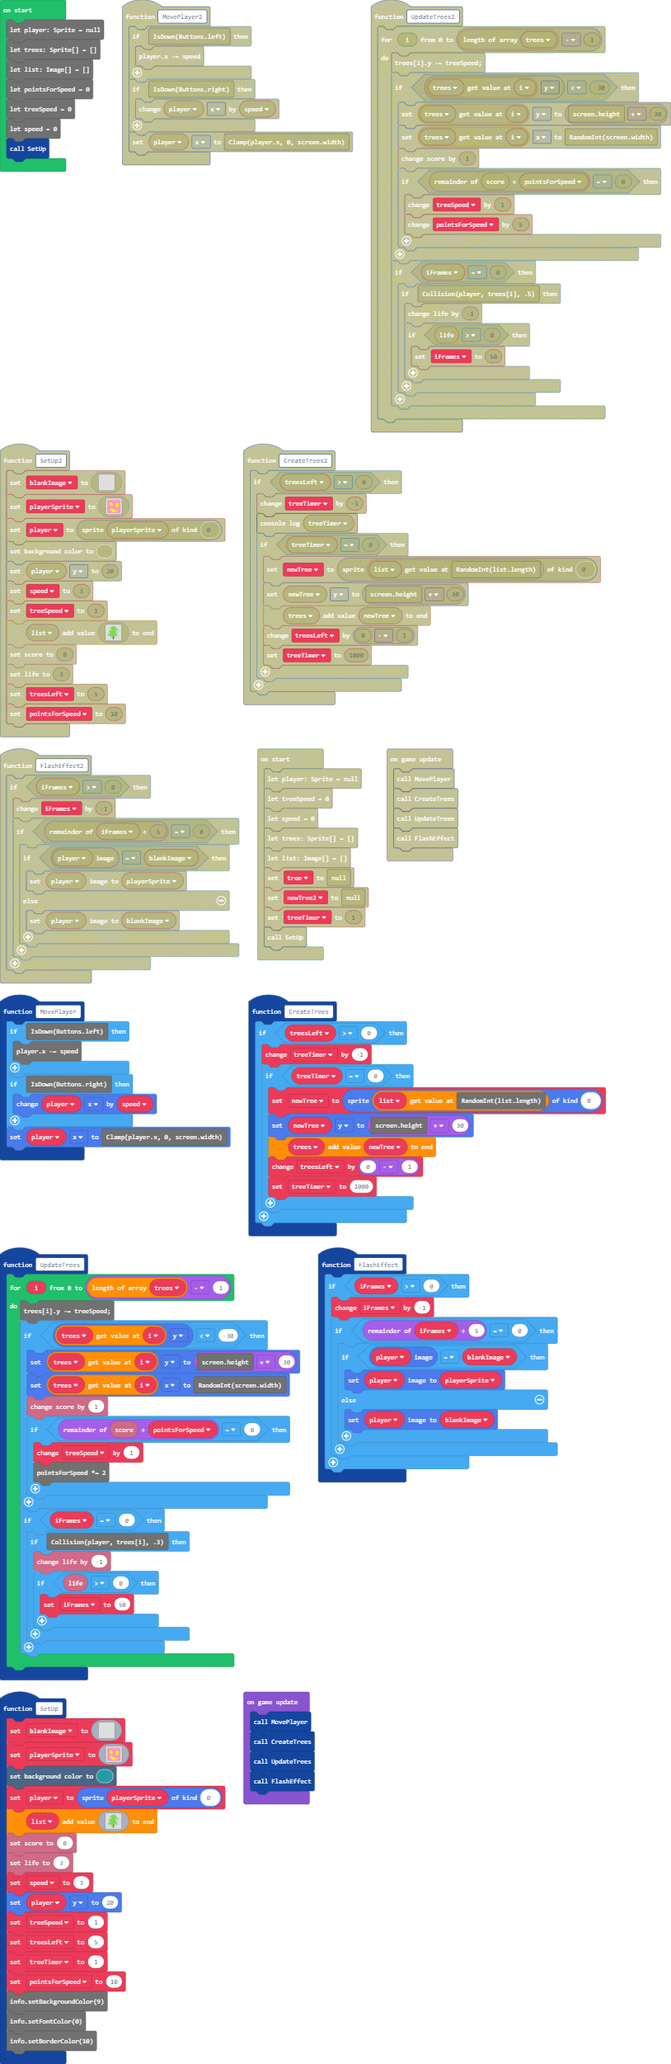
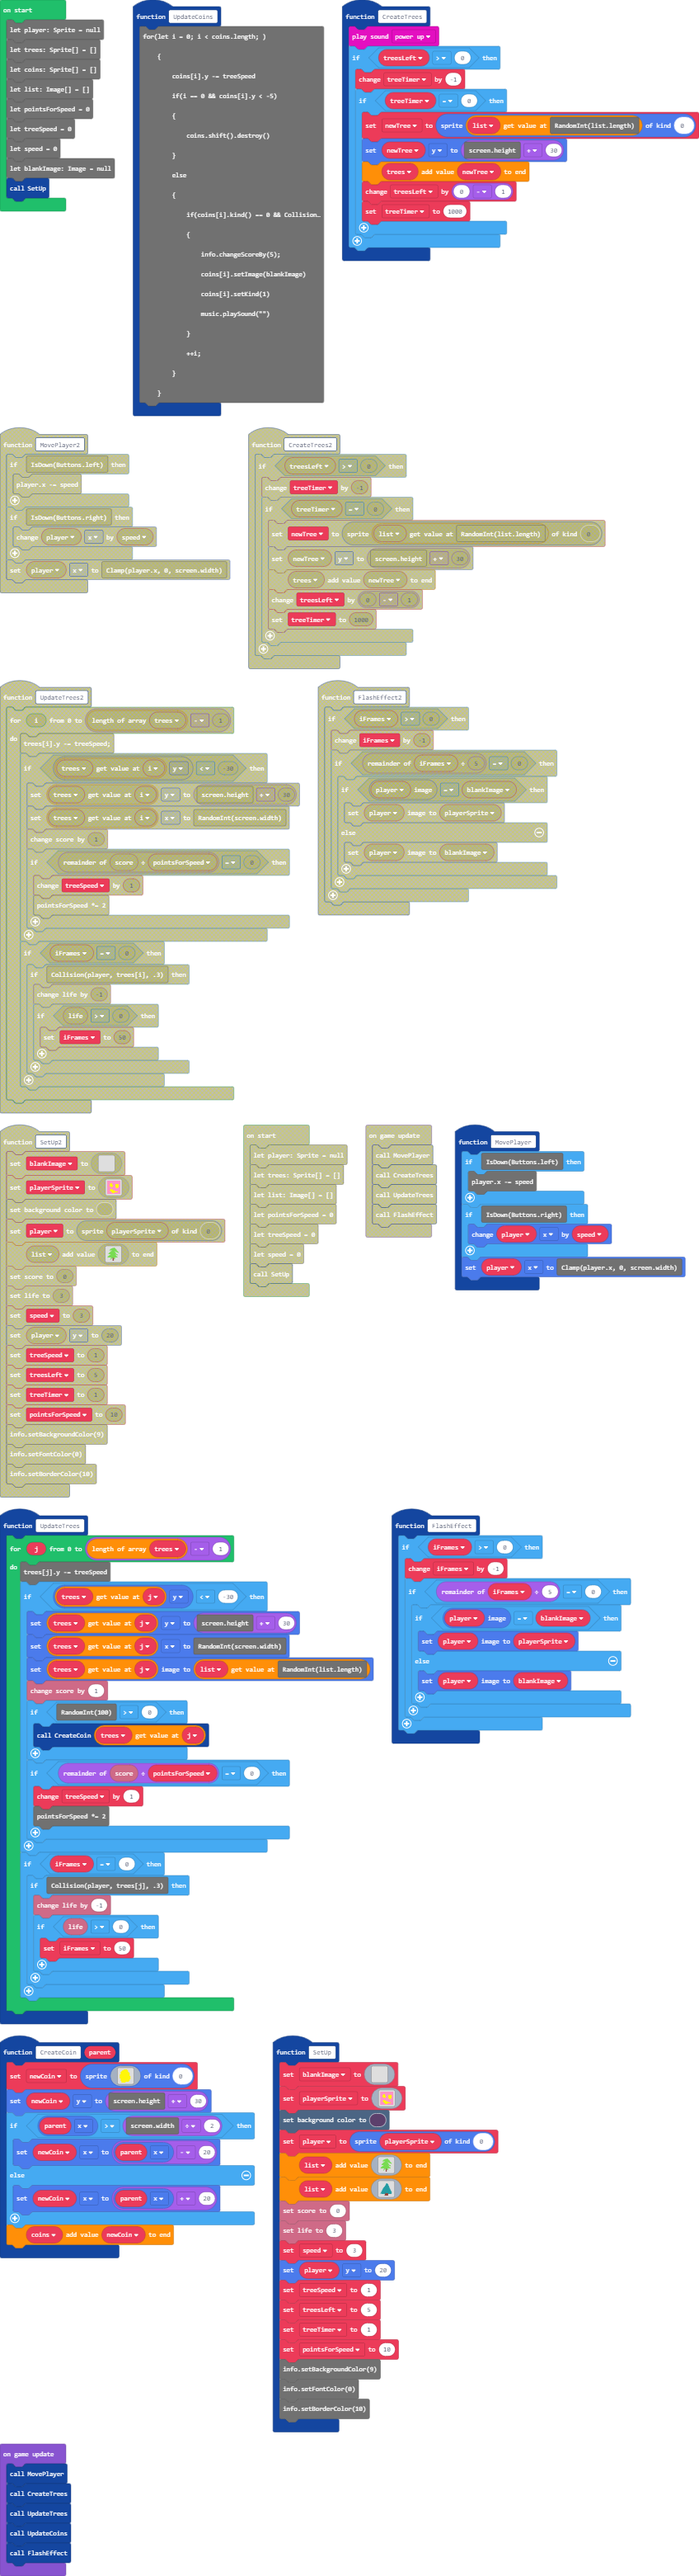
Update main.blocks, main.ts

diff --git a/main.ts b/main.ts
@@ -7,6 +7,27 @@ function MovePlayer () {
     }
     player.x = Clamp(player.x, 0, screen.width)
 }
+function UpdateCoins () {
+    for(let i = 0; i < coins.length; )
+    {
+        coins[i].y -= treeSpeed
+        if(i == 0 && coins[i].y < -5)
+        {
+            coins.shift().destroy()
+        }
+        else
+        {
+            if(coins[i].kind() == 0 && Collision(player, coins[i], 1))
+            {
+                info.changeScoreBy(5);
+                coins[i].setImage(blankImage)
+                coins[i].setKind(1)
+                music.powerUp.play()
+            }
+            ++i;
+        }
+    }
+}
 function CreateTrees () {
     if (treesLeft > 0) {
         treeTimer += -1
@@ -20,26 +41,58 @@ function CreateTrees () {
     }
 }
 function UpdateTrees () {
-    for (let i = 0; i <= trees.length - 1; i++) {
-        trees[i].y -= treeSpeed;
-if (trees[i].y < -30) {
-            trees[i].y = screen.height + 30
-            trees[i].x = RandomInt(screen.width)
+    for (let j = 0; j <= trees.length - 1; j++) {
+        trees[j].y -= treeSpeed
+if (trees[j].y < -30) {
+            trees[j].y = screen.height + 30
+            trees[j].x = RandomInt(screen.width)
+            trees[j].setImage(list[RandomInt(list.length)])
             info.changeScoreBy(1)
+            if (RandomInt(100) > 0) {
+                CreateCoin(trees[j])
+            }
             if (info.score() % pointsForSpeed == 0) {
                 treeSpeed += 1
                 pointsForSpeed *= 2
             }
         }
         if (iFrames == 0) {
-            if (Collision(player, trees[i], .3)) {
+            if (Collision(player, trees[j], .3)) {
                 info.changeLifeBy(-1)
                 if (info.life() > 0) {
                     iFrames = 50
+                    music.powerDown.play()
                 }
             }
         }
     }
+}
+function CreateCoin (parent: Sprite) {
+    newCoin = sprites.create(img`
+        . . . . . . 5 5 5 5 . . . . . .
+        . . . . 5 5 5 5 5 5 5 . . . . .
+        . . . 5 5 5 5 5 5 5 5 . . . . .
+        . . 5 5 5 5 5 5 5 5 5 5 . . . .
+        . . 5 5 5 5 5 5 5 5 5 5 5 . . .
+        . . 5 5 5 5 5 5 5 5 5 5 5 . . .
+        . 5 5 5 5 5 5 5 5 5 5 5 5 . . .
+        . 5 5 5 5 5 5 5 5 5 5 5 5 . . .
+        . 5 5 5 5 5 5 5 5 5 5 5 5 5 . .
+        . 5 5 5 5 5 5 5 5 5 5 5 5 5 . .
+        . 5 5 5 5 5 5 5 5 5 5 5 5 5 . .
+        . . 5 5 5 5 5 5 5 5 5 5 5 5 . .
+        . . 5 5 5 5 5 5 5 5 5 5 5 . . .
+        . . 5 5 5 5 5 5 5 5 5 5 5 . . .
+        . . . 5 5 5 5 5 5 5 5 5 . . . .
+        . . . 5 5 5 5 5 . . . . . . . .
+    `, 0)
+    newCoin.y = screen.height + 30
+    if (parent.x > screen.width / 2) {
+        newCoin.x = parent.x - 20
+    } else {
+        newCoin.x = parent.x + 20
+    }
+    coins.push(newCoin)
 }
 function FlashEffect () {
     if (iFrames > 0) {
@@ -90,7 +143,7 @@ function SetUp () {
         3 3 3 3 3 3 5 5 5 3 3 3 3 3 3 3
         3 3 3 3 3 3 3 3 3 3 3 3 3 3 3 3
     `
-    scene.setBackgroundColor(6)
+    scene.setBackgroundColor(12)
     player = sprites.create(playerSprite, 0)
     list.push(img`
         . . . . . . . . . . . . . . . . . 7 7 . . . . . . . . . . . . .
@@ -126,6 +179,40 @@ function SetUp () {
         . . . . . . . . . . . . . . e e e . . . . . . . . . . . . . . .
         . . . . . . . . . . . . . . e e e . . . . . . . . . . . . . . .
     `)
+    list.push(img`
+        . . . . . . . . . . . . . . . . . . . . . . . . . . . . . . . .
+        . . . . . . . . . . . . . . . . . . . . . . . . . . . . . . . .
+        . . . . . . . . . . . . . . . . 6 6 . . . . . . . . . . . . . .
+        . . . . . . . . . . . . . . . 6 6 6 6 . . . . . . . . . . . . .
+        . . . . . . . . . . . . . . . 6 6 6 6 6 . . . . . . . . . . . .
+        . . . . . . . . . . . . . . 6 6 6 6 6 6 6 . . . . . . . . . . .
+        . . . . . . . . . . . . . . 6 6 6 6 6 6 6 . . . . . . . . . . .
+        . . . . . . . . . . . . . 6 6 6 6 6 6 6 6 . . . . . . . . . . .
+        . . . . . . . . . . . . 6 6 6 6 6 6 6 6 6 6 . . . . . . . . . .
+        . . . . . . . . . . . . 6 6 6 6 6 6 6 6 6 6 . . . . . . . . . .
+        . . . . . . . . . . . 6 6 6 6 6 6 6 6 6 6 6 6 . . . . . . . . .
+        . . . . . . . . . . 6 6 6 6 6 6 6 6 6 6 6 6 6 . . . . . . . . .
+        . . . . . . . . . 6 6 6 6 6 6 6 6 6 6 6 6 6 6 . . . . . . . . .
+        . . . . . . . . . 6 6 6 6 6 6 6 6 6 6 6 6 6 6 6 . . . . . . . .
+        . . . . . . . . 6 6 6 6 6 6 6 6 6 6 6 6 6 6 6 6 . . . . . . . .
+        . . . . . . . 6 6 6 6 6 6 6 6 6 6 6 6 6 6 6 6 6 6 . . . . . . .
+        . . . . . . . 6 6 6 6 6 6 6 6 6 6 6 6 6 6 6 6 6 6 . . . . . . .
+        . . . . . . 6 6 6 6 6 6 6 6 6 6 6 6 6 6 6 6 6 6 6 6 . . . . . .
+        . . . . . . 6 6 6 6 6 6 6 6 6 6 6 6 6 6 6 6 6 6 6 6 . . . . . .
+        . . . . . 6 6 6 6 6 6 6 6 6 6 6 6 6 6 6 6 6 6 6 6 6 6 . . . . .
+        . . . . . 6 6 6 6 6 6 6 6 6 6 6 6 6 6 6 6 6 6 6 6 6 6 . . . . .
+        . . . . 6 6 6 6 6 6 6 6 6 6 6 6 6 6 6 6 6 6 6 6 6 6 6 6 . . . .
+        . . . . 6 6 6 6 6 6 6 6 6 6 6 6 6 6 6 6 6 6 6 6 6 6 6 6 6 . . .
+        . . . 6 6 6 6 6 6 6 6 6 6 6 6 6 6 6 6 6 6 6 6 6 6 6 6 6 6 . . .
+        . . . 6 6 6 6 6 6 6 6 6 6 6 6 6 6 6 6 6 6 6 6 6 6 6 6 6 6 . . .
+        . . 6 6 6 6 6 6 6 6 6 6 6 e 6 6 6 6 6 6 6 6 6 6 6 6 6 6 6 . . .
+        . 6 6 6 6 6 6 6 6 6 6 6 6 6 e e e e e e 6 6 6 6 6 6 6 6 6 . . .
+        . . . . 6 6 6 6 6 6 6 6 6 e e e e e e e 6 6 6 6 6 6 6 6 . . . .
+        . . . . . . . . . . . . e e e e e e e e . . . . . . . . . . . .
+        . . . . . . . . . . . . e e e e e e e e . . . . . . . . . . . .
+        . . . . . . . . . . . . e e e e e e e e . . . . . . . . . . . .
+        . . . . . . . . . . . e e e e e e e e e . . . . . . . . . . . .
+    `)
     info.setScore(0)
     info.setLife(3)
     speed = 3
@@ -135,25 +222,28 @@ function SetUp () {
     treeTimer = 1
     pointsForSpeed = 10
     info.setBackgroundColor(9)
-    info.setFontColor(0)
-    info.setBorderColor(10)
+info.setFontColor(0)
+info.setBorderColor(10)
 }
 let playerSprite: Image = null
-let blankImage: Image = null
+let newCoin: Sprite = null
 let iFrames = 0
 let newTree: Sprite = null
 let treeTimer = 0
 let treesLeft = 0
 let player: Sprite = null
 let trees: Sprite[] = []
+let coins: Sprite[] = []
 let list: Image[] = []
 let pointsForSpeed = 0
 let treeSpeed = 0
 let speed = 0
+let blankImage: Image = null
 SetUp()
 game.onUpdate(function () {
     MovePlayer()
     CreateTrees()
     UpdateTrees()
+    UpdateCoins()
     FlashEffect()
 })
